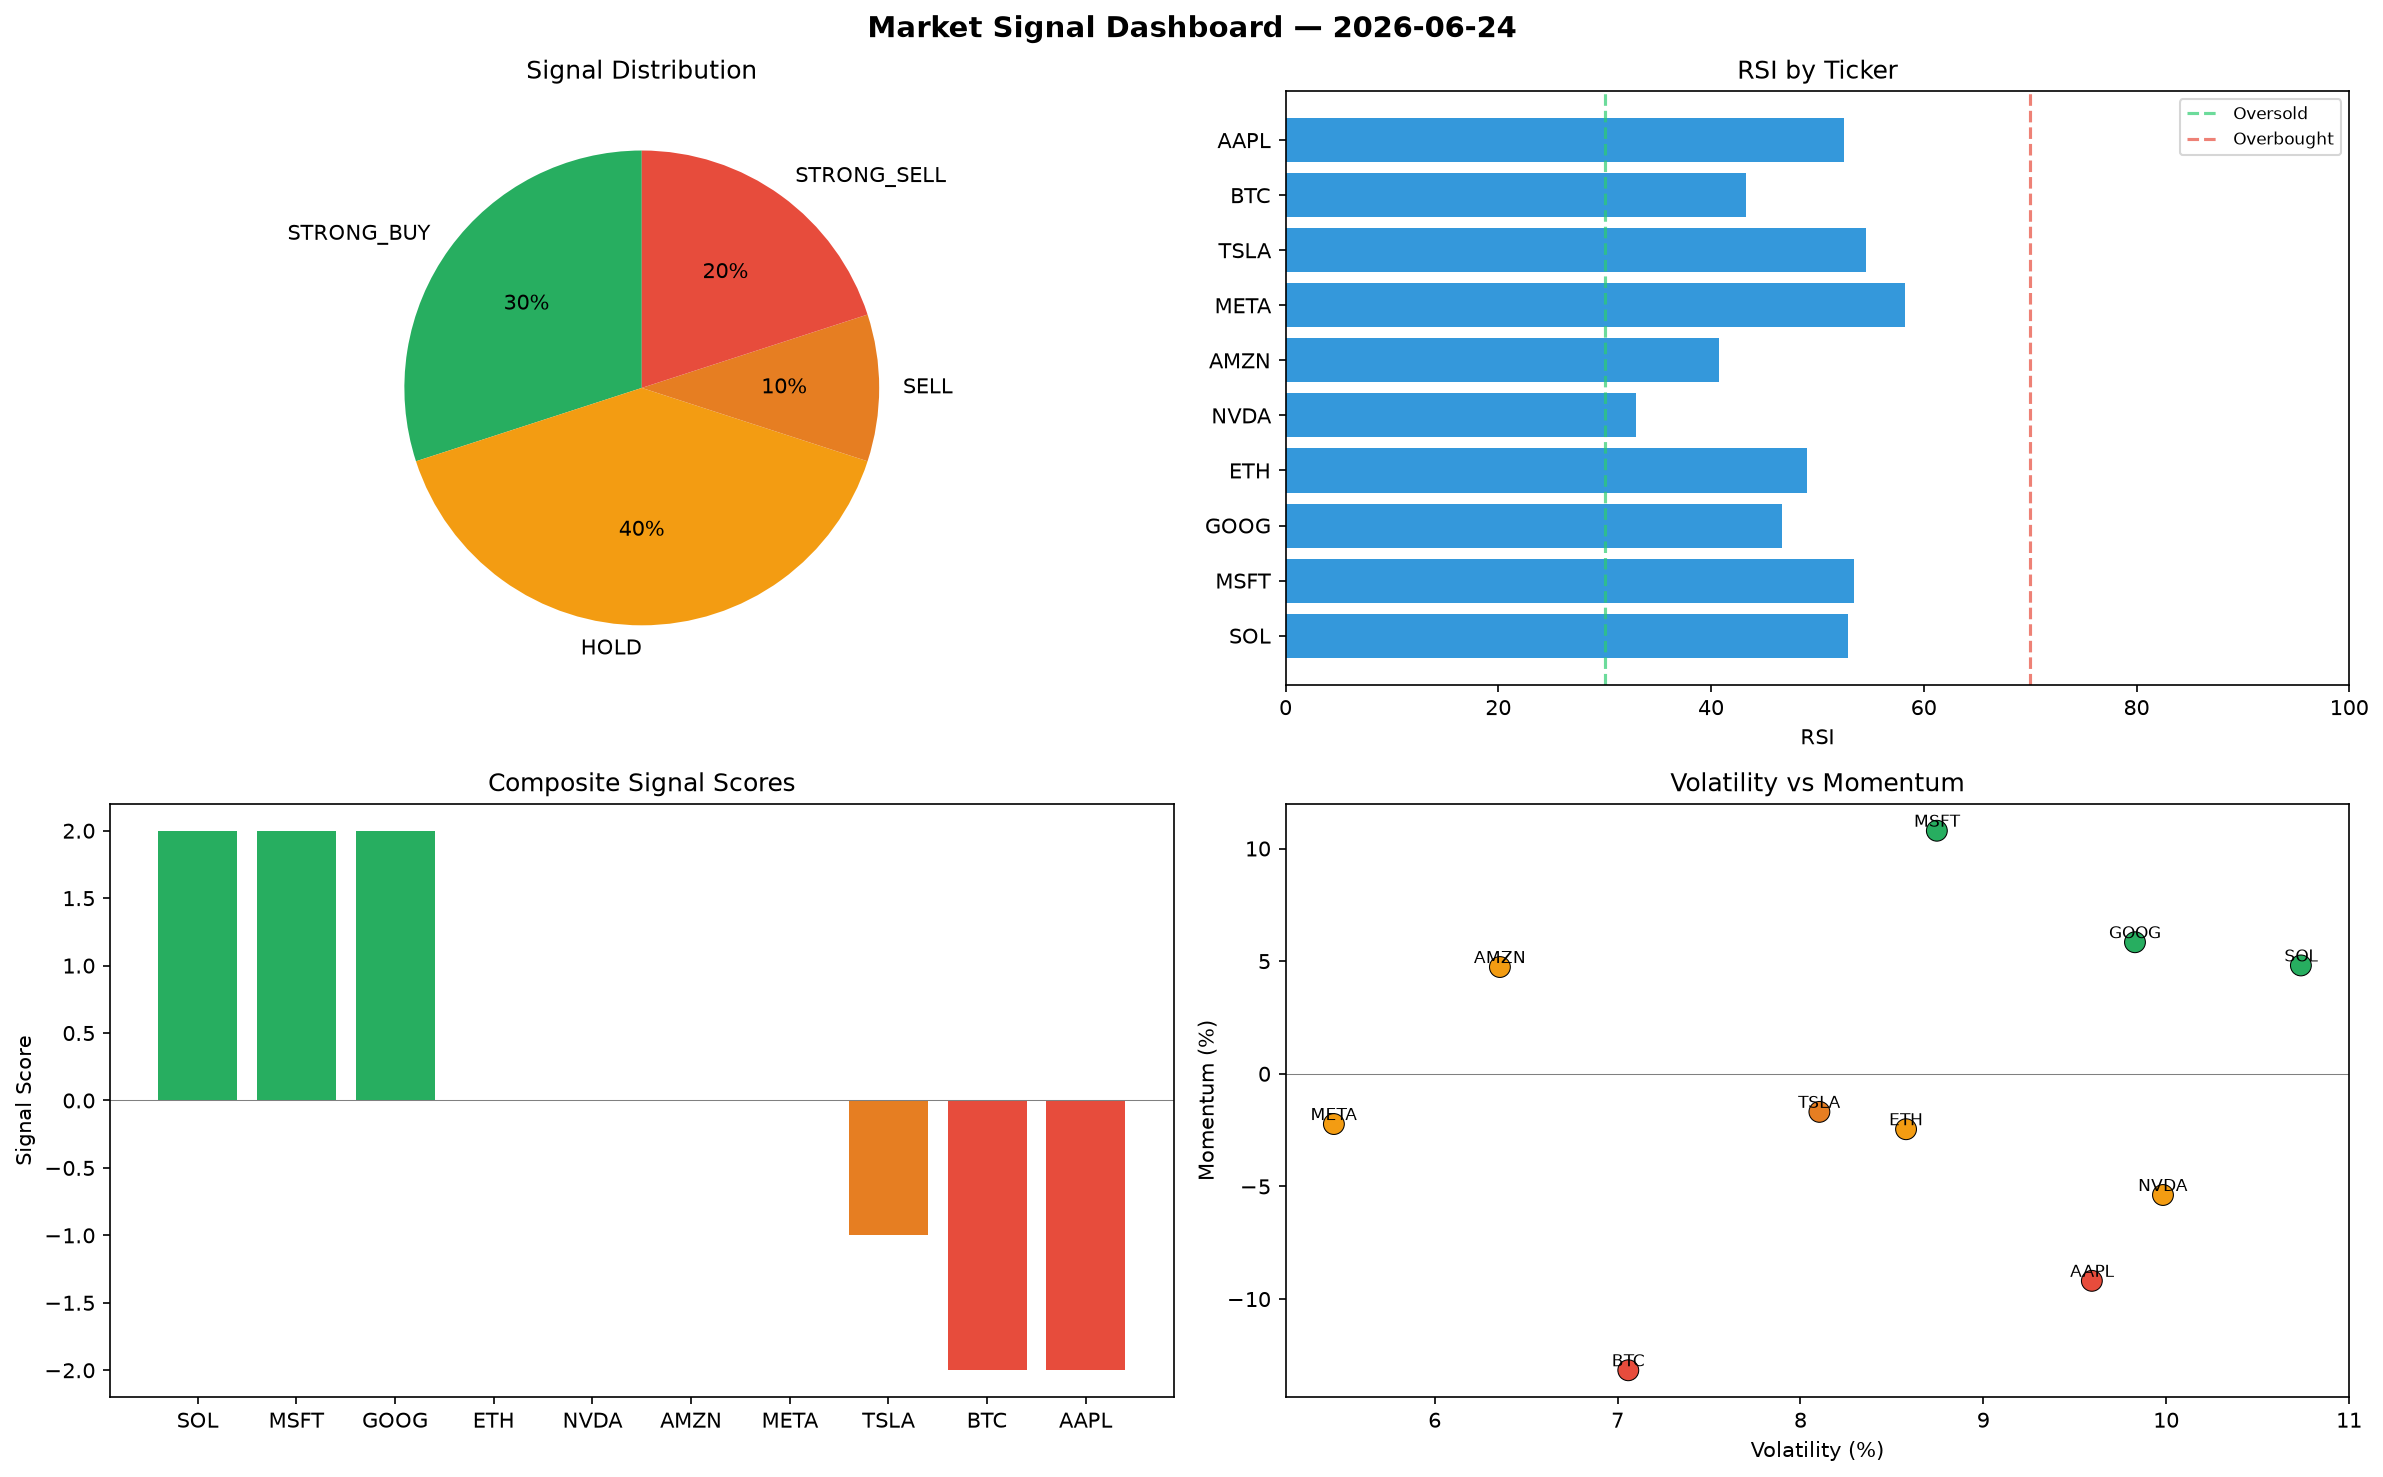
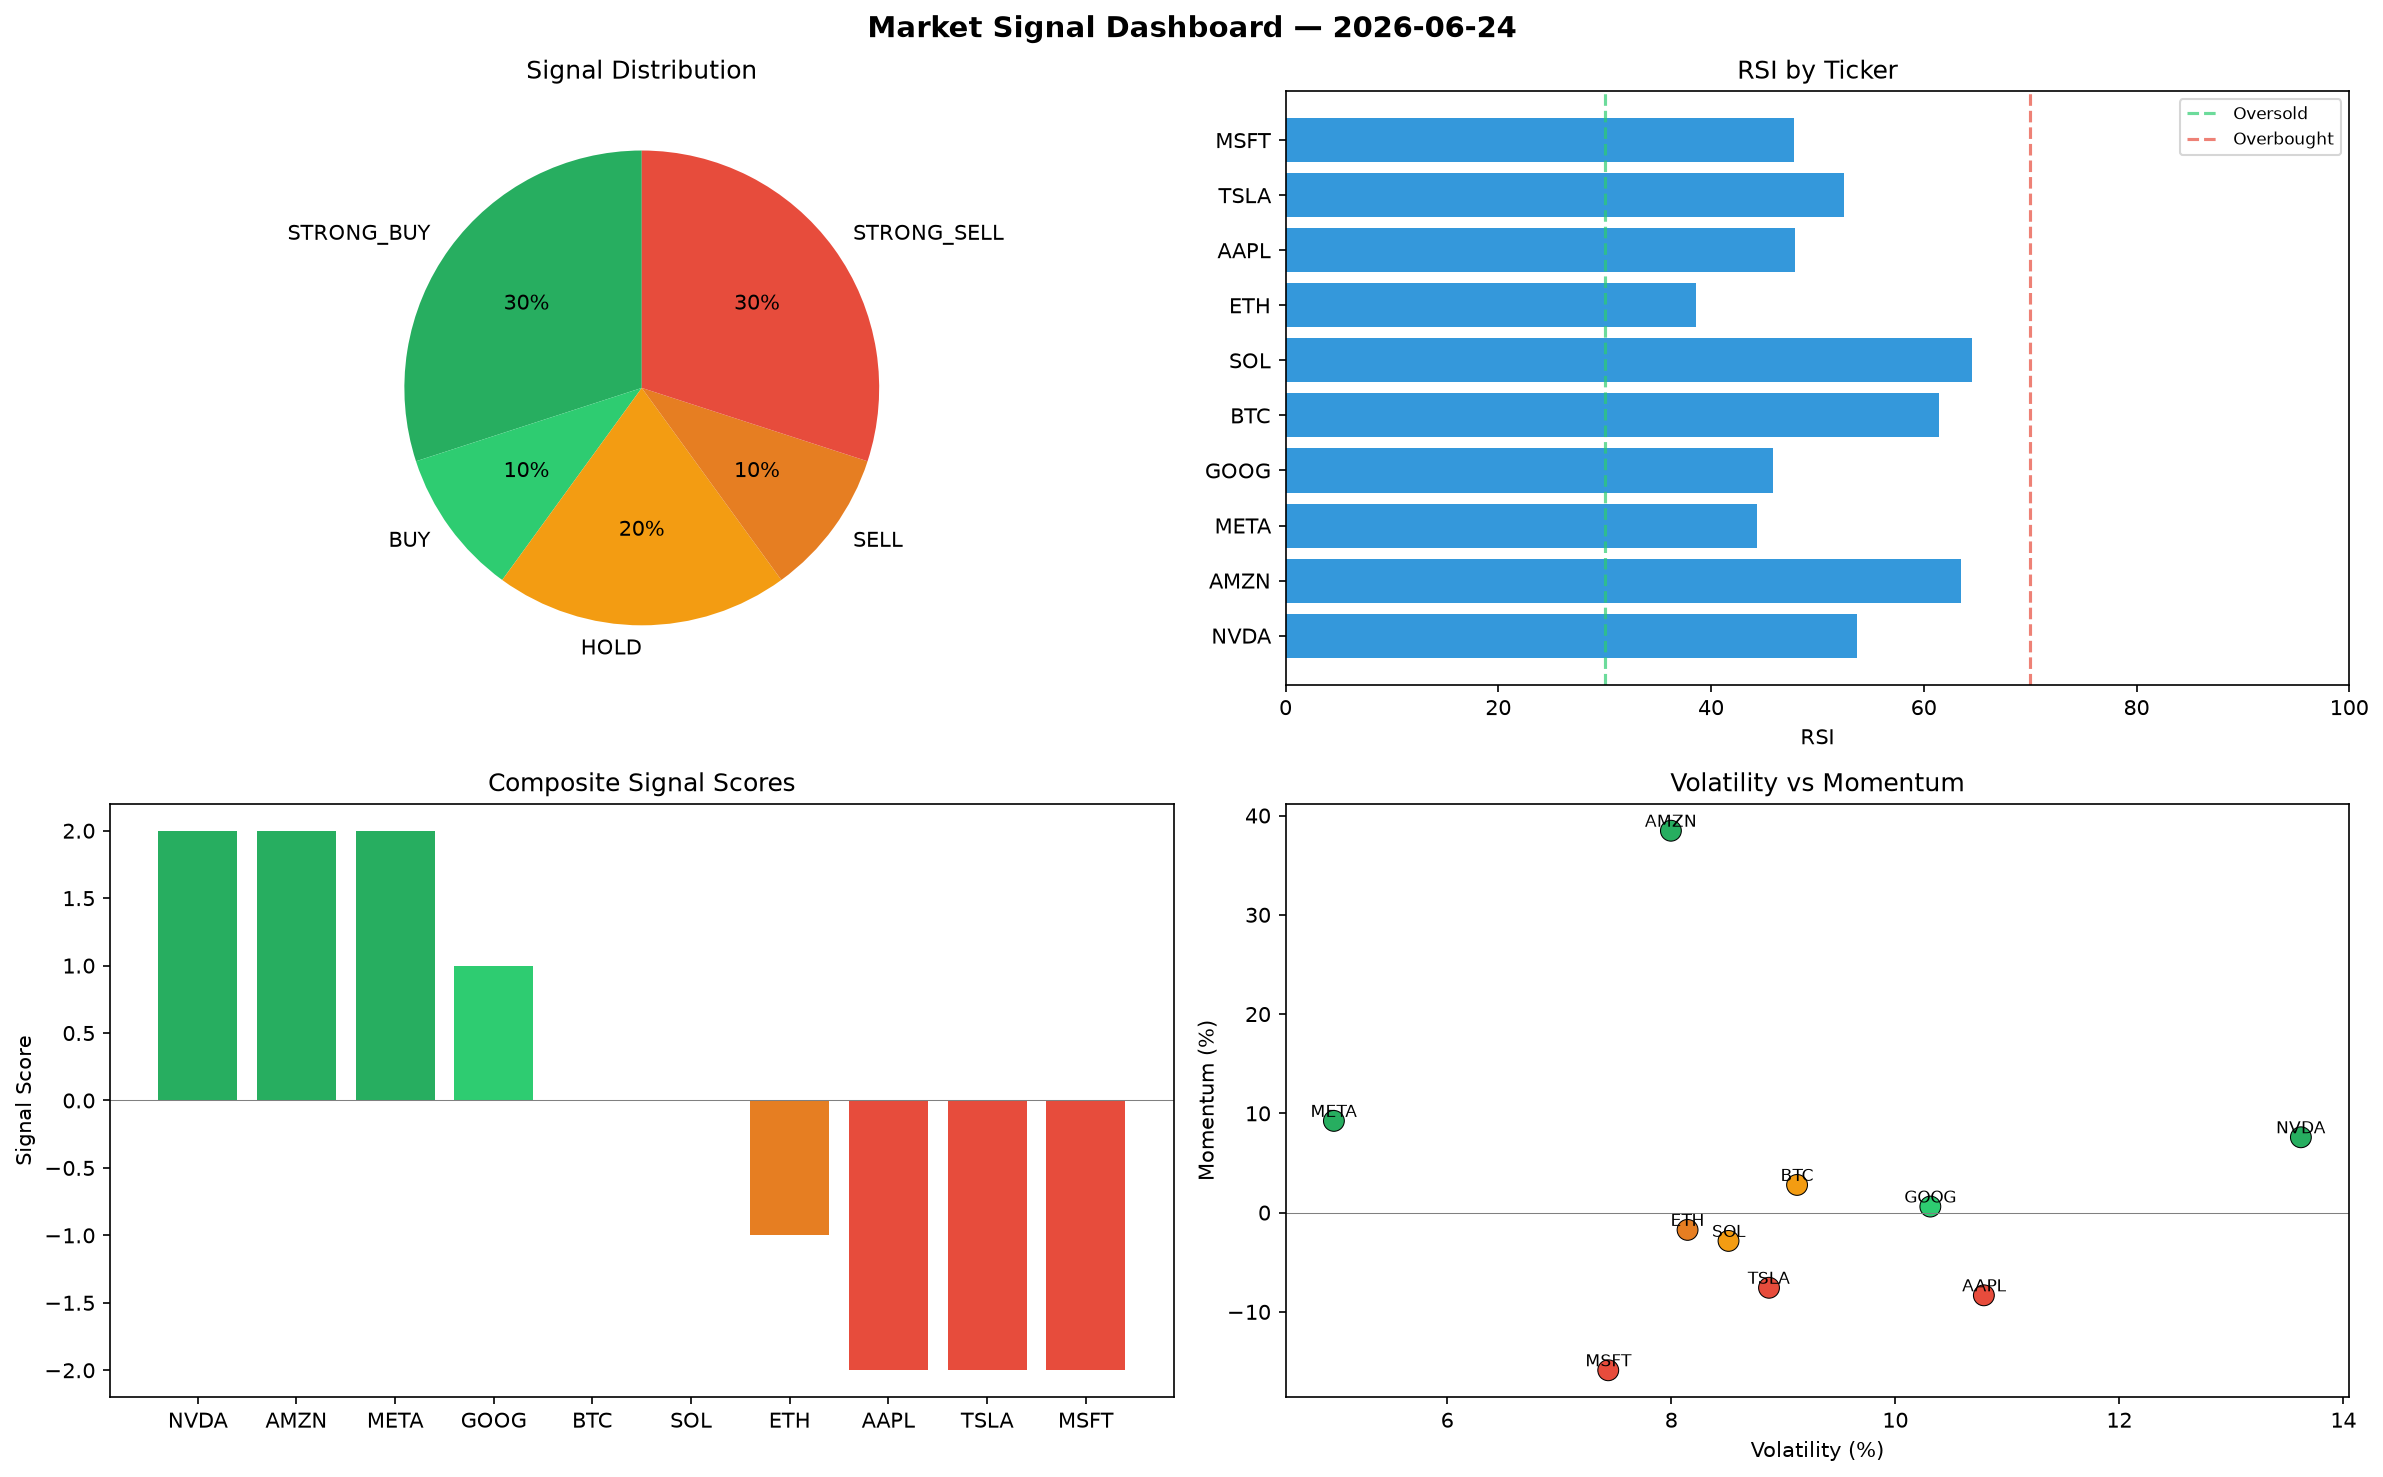
automated-bots: market signals 2026-06-24T11:21

diff --git a/logs/2026-06-24.md b/logs/2026-06-24.md
@@ -1,6 +1,6 @@
 # Market Signal Report — 2026-06-24
 
-**Run ID:** `4db8d17ace` | **Buy:** 3 | **Sell:** 3 | **Hold:** 4
+**Run ID:** `d4362f34b4` | **Buy:** 4 | **Sell:** 4 | **Hold:** 2
 
 ![Dashboard](2026-06-24_dashboard.png)
 
@@ -8,28 +8,28 @@
 
 | Ticker | Price | Signal | Score | RSI | Momentum | Confidence |
 |--------|-------|--------|-------|-----|----------|------------|
-| SOL | $1662.2 | **STRONG_BUY** | 2 | 52.87 | 0.0481 | 0.5 |
-| MSFT | $4742.7 | **STRONG_BUY** | 2 | 53.48 | 0.1079 | 0.5 |
-| GOOG | $4054.9 | **STRONG_BUY** | 2 | 46.71 | 0.0584 | 0.5 |
-| ETH | $4104.91 | **HOLD** | 0 | 49.02 | -0.0246 | 0.0 |
-| NVDA | $205.83 | **HOLD** | 0 | 32.93 | -0.0538 | 0.0 |
-| AMZN | $3179.94 | **HOLD** | 0 | 40.75 | 0.0474 | 0.0 |
-| META | $2997.18 | **HOLD** | 0 | 58.2 | -0.0223 | 0.0 |
-| TSLA | $2343.31 | **SELL** | -1 | 54.61 | -0.0169 | 0.25 |
-| BTC | $3652.73 | **STRONG_SELL** | -2 | 43.26 | -0.1316 | 0.5 |
-| AAPL | $3425.81 | **STRONG_SELL** | -2 | 52.46 | -0.0919 | 0.5 |
+| NVDA | $2543.28 | **STRONG_BUY** | 2 | 53.68 | 0.0759 | 0.5 |
+| AMZN | $30.99 | **STRONG_BUY** | 2 | 63.53 | 0.3847 | 0.5 |
+| META | $3107.71 | **STRONG_BUY** | 2 | 44.31 | 0.0924 | 0.5 |
+| GOOG | $4264.91 | **BUY** | 1 | 45.85 | 0.0061 | 0.25 |
+| BTC | $209.13 | **HOLD** | 0 | 61.41 | 0.0279 | 0.0 |
+| SOL | $2122.16 | **HOLD** | 0 | 64.5 | -0.0285 | 0.0 |
+| ETH | $401.78 | **SELL** | -1 | 38.56 | -0.0174 | 0.25 |
+| AAPL | $3847.01 | **STRONG_SELL** | -2 | 47.89 | -0.0833 | 0.5 |
+| TSLA | $3675.44 | **STRONG_SELL** | -2 | 52.52 | -0.0757 | 0.5 |
+| MSFT | $2209.36 | **STRONG_SELL** | -2 | 47.84 | -0.1588 | 0.5 |
 
 ## Delta vs Yesterday
 
 | Ticker | Today | Yesterday | Price Change | Signal Changed |
 |--------|-------|-----------|-------------|----------------|
-| SOL | STRONG_BUY | STRONG_SELL | 📉 -59.6% | ⚠ YES |
-| MSFT | STRONG_BUY | STRONG_SELL | 📈 108.39% | ⚠ YES |
-| GOOG | STRONG_BUY | STRONG_SELL | 📈 23.63% | ⚠ YES |
-| ETH | HOLD | HOLD | 📉 -0.04% | — |
-| NVDA | HOLD | BUY | 📉 -94.2% | ⚠ YES |
-| AMZN | HOLD | STRONG_SELL | 📉 -8.16% | ⚠ YES |
-| META | HOLD | STRONG_BUY | 📉 -3.75% | ⚠ YES |
-| TSLA | SELL | BUY | 📉 -51.64% | ⚠ YES |
-| BTC | STRONG_SELL | STRONG_SELL | 📈 21.51% | — |
-| AAPL | STRONG_SELL | STRONG_BUY | 📈 707.44% | ⚠ YES |
+| NVDA | STRONG_BUY | BUY | 📉 -28.35% | ⚠ YES |
+| AMZN | STRONG_BUY | STRONG_SELL | 📉 -99.1% | ⚠ YES |
+| META | STRONG_BUY | STRONG_BUY | 📉 -0.2% | — |
+| GOOG | BUY | STRONG_SELL | 📈 30.03% | ⚠ YES |
+| BTC | HOLD | STRONG_SELL | 📉 -93.04% | ⚠ YES |
+| SOL | HOLD | STRONG_SELL | 📉 -48.42% | ⚠ YES |
+| ETH | SELL | HOLD | 📉 -90.22% | ⚠ YES |
+| AAPL | STRONG_SELL | STRONG_BUY | 📈 806.71% | ⚠ YES |
+| TSLA | STRONG_SELL | BUY | 📉 -24.15% | ⚠ YES |
+| MSFT | STRONG_SELL | STRONG_SELL | 📉 -2.92% | — |
